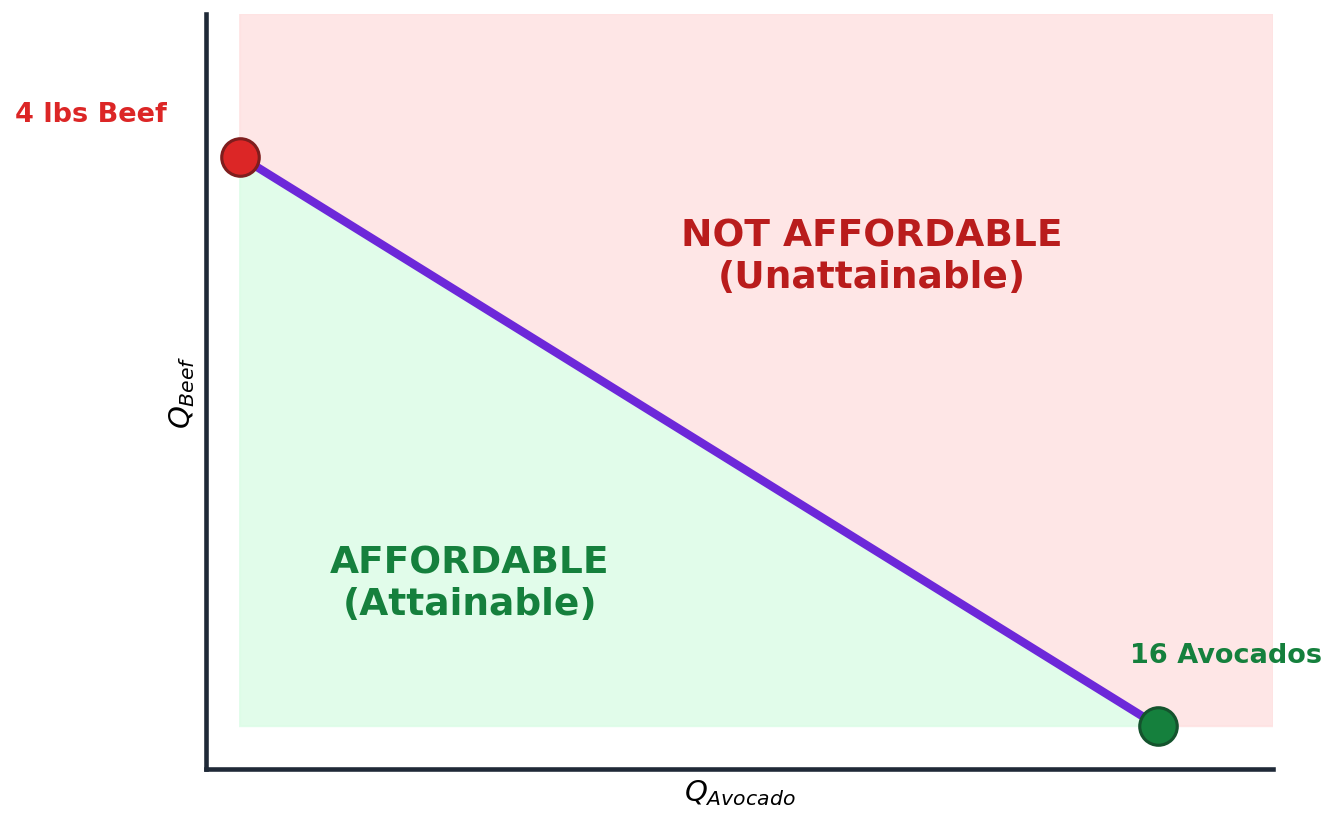
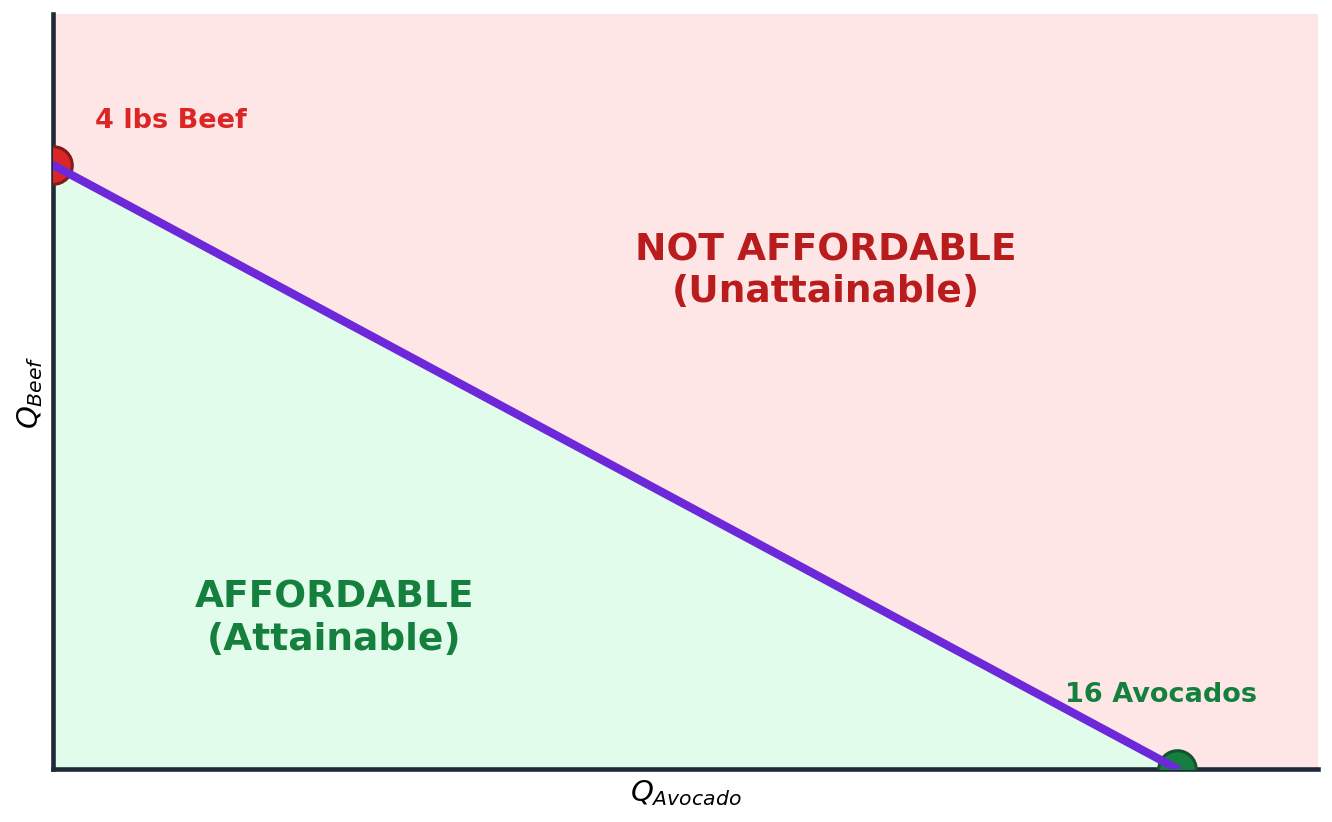
Ch8: anchor budget-line axes at (0,0); drop redundant budget-diagram; add Alex solution sub-slide
- figure_lets_visualize.py + figure_budget_regions.py: spines now sit at
  data origin (0,0) so endpoints meet the axes cleanly (no offset gap
  between markers and the line). Annotations repositioned to stay inside
  the new bounds.
- Remove the old "Budget Line on the Diagram" slide (figure_001 pivot/shift
  preview) — superseded by the new Let's Visualize + Affordable/Unaffordable
  pair just before it.
- alex-you-try is now a vertical group with a new alex-you-try-solution
  sub-slide (press ↓): figure_alex_solution.png shows endpoints
  (5 meals, 0 games) ↔ (0 meals, 1.875 games), the $75/$75 midpoint,
  and slope = P_meal/P_game = 0.375. Three walkthrough cards explain
  endpoints, opportunity-cost slope, and the indivisibility wrinkle
  (1 game + 2 meals = $140, $10 left).

Changed region(s): [[0.0, 0.0, 1.0, 1.0], [0.4617, 0.2433, 0.8003, 0.365]]

diff --git a/econ1116/ch08-consumer-choice/presentation.html b/econ1116/ch08-consumer-choice/presentation.html
@@ -1697,54 +1697,83 @@ The punchline — "variety in the middle" — previews two later concepts: (a) c
   <aside class="notes">The budget LINE is the boundary, but the budget CONSTRAINT is the whole region (including the interior). Three zones: (1) ON the line — spent every dollar; (2) INSIDE the triangle (below + to the left of the line) — affordable, saved some money; (3) ABOVE the line — unaffordable. Connect back to the PPF from Ch 3 — same logic at the consumer scale.</aside>
 </section>
 
-<!-- ===== You Try — Alex's $150 budget, draw it on paper ===== -->
-<section id="alex-you-try">
-  <h2><i class="fa-solid fa-pencil" style="color: var(--accent-color);"></i> You Try &mdash; Draw Alex&rsquo;s Budget Line</h2>
+<!-- ===== You Try vertical group — Alex's $150 budget + solution sub-slide ===== -->
+<section>
+  <section id="alex-you-try">
+    <h2><i class="fa-solid fa-pencil" style="color: var(--accent-color);"></i> You Try &mdash; Draw Alex&rsquo;s Budget Line</h2>
 
-  <div style="display: grid; grid-template-columns: 1fr 1.1fr; gap: 22px; align-items: center;">
-    <!-- LEFT: data context -->
-    <div>
-      <div style="background: #f8f6f3; border-radius: 10px; padding: 14px 22px; border-left: 4px solid var(--secondary-color); margin-bottom: 12px;">
-        <p style="font-size: 12pt; font-weight: 700; color: var(--secondary-color); text-transform: uppercase; letter-spacing: 0.06em; margin: 0 0 4px;"><i class="fa-solid fa-book" style="margin-right: 6px;"></i>Case Study: Alex&rsquo;s monthly entertainment</p>
-        <p style="font-size: 14pt; line-height: 1.6; margin: 0;">
-          <strong>Income:</strong> $150 / mo discretionary<br>
-          <strong>Price X (Games):</strong> $80<br>
-          <strong>Price Y (Uber Eats):</strong> $30
-        </p>
+    <div style="display: grid; grid-template-columns: 1fr 1.1fr; gap: 22px; align-items: center;">
+      <!-- LEFT: data context -->
+      <div>
+        <div style="background: #f8f6f3; border-radius: 10px; padding: 14px 22px; border-left: 4px solid var(--secondary-color); margin-bottom: 12px;">
+          <p style="font-size: 12pt; font-weight: 700; color: var(--secondary-color); text-transform: uppercase; letter-spacing: 0.06em; margin: 0 0 4px;"><i class="fa-solid fa-book" style="margin-right: 6px;"></i>Case Study: Alex&rsquo;s monthly entertainment</p>
+          <p style="font-size: 14pt; line-height: 1.6; margin: 0;">
+            <strong>Income:</strong> $150 / mo discretionary<br>
+            <strong>Price X (Games):</strong> $80<br>
+            <strong>Price Y (Uber Eats):</strong> $30
+          </p>
+        </div>
+
+        <div style="background: #fff3e0; border-radius: 8px; padding: 10px 18px; border-left: 4px solid var(--accent-color);">
+          <p style="font-size: 13pt; line-height: 1.55; margin: 0;">On paper:
+            <br>1. Find the two <strong>endpoints</strong> (all on games &middot; all on Uber Eats)
+            <br>2. Draw the budget <strong>line</strong>
+            <br>3. Shade the <strong>affordable</strong> region
+          </p>
+        </div>
       </div>
 
-      <div style="background: #fff3e0; border-radius: 8px; padding: 10px 18px; border-left: 4px solid var(--accent-color);">
-        <p style="font-size: 13pt; line-height: 1.55; margin: 0;">On paper:
-          <br>1. Find the two <strong>endpoints</strong> (all on games &middot; all on Uber Eats)
-          <br>2. Draw the budget <strong>line</strong>
-          <br>3. Shade the <strong>affordable</strong> region
-        </p>
+      <!-- RIGHT: empty graph with prompt -->
+      <div style="text-align: center;">
+        <img src="figures/figure_alex_you_try.png" alt="Empty Q_Games vs Q_Uber-Eats axes for students to draw the budget line" style="width: 100%; max-width: 540px; height: auto;">
       </div>
     </div>
 
-    <!-- RIGHT: empty graph with prompt -->
-    <div style="text-align: center;">
-      <img src="figures/figure_alex_you_try.png" alt="Empty Q_Games vs Q_Uber-Eats axes for students to draw the budget line" style="width: 100%; max-width: 540px; height: auto;">
+    <p style="text-align: center; font-size: 12pt; color: var(--muted-color); margin-top: 12px; font-style: italic;">
+      Work it out on paper &mdash; <strong>3 minutes</strong>. Press <kbd>&darr;</kbd> for the solution.
+    </p>
+
+    <aside class="notes">Student practice — paper exercise. The answer: at $150 with $80 games + $30 Uber Eats, the endpoints are (0 games, 5 meals) and (1.875 games, 0 meals). Budget line slopes downward connecting them. Slope = −P_meal/P_game = −30/80 = −0.375 (each extra meal costs 0.375 of a game). Real-world note: Alex can't buy 1.875 games — so practical bundles are (0 games + 5 meals), (1 game + 2.33 meals), or (1 game + 2 meals saving $10). The fractional-game point on the budget line is purely mathematical. Walk around the room, then press DOWN to project the solution.</aside>
+  </section>
+
+  <section id="alex-you-try-solution">
+    <h2><i class="fa-solid fa-circle-check" style="color: var(--accent-color);"></i> Solution &mdash; Alex&rsquo;s Budget Line</h2>
+
+    <div style="display: grid; grid-template-columns: 1.25fr 1fr; gap: 22px; align-items: center;">
+      <!-- LEFT: the filled-in figure -->
+      <div style="text-align: center;">
+        <img src="figures/figure_alex_solution.png" alt="Alex's $150 budget line — endpoints (5 meals, 0 games) and (0 meals, 1.875 games), with $75/$75 midpoint" style="width: 100%; max-width: 620px; height: auto;">
+      </div>
+
+      <!-- RIGHT: walkthrough cards -->
+      <div>
+        <div style="background: #f8f6f3; border-radius: 8px; padding: 10px 16px; border-left: 4px solid var(--accent-color); margin-bottom: 10px;">
+          <p style="font-size: 11pt; font-weight: 700; color: var(--accent-color); text-transform: uppercase; letter-spacing: 0.06em; margin: 0 0 3px;">Endpoints</p>
+          <p style="font-size: 13pt; line-height: 1.55; margin: 0;">
+            All on games: $150 &divide; $80 = <strong>1.875 games</strong><br>
+            All on meals: $150 &divide; $30 = <strong>5 Uber Eats</strong>
+          </p>
+        </div>
+
+        <div style="background: #fef9c3; border-radius: 8px; padding: 10px 16px; border-left: 4px solid #ca8a04; margin-bottom: 10px;">
+          <p style="font-size: 11pt; font-weight: 700; color: #854d0e; text-transform: uppercase; letter-spacing: 0.06em; margin: 0 0 3px;">Slope (opportunity cost)</p>
+          <p style="font-size: 13pt; line-height: 1.55; margin: 0;">
+            P<sub>meal</sub> &divide; P<sub>game</sub> = $30 &divide; $80 = <strong>0.375</strong><br>
+            Each extra meal costs <strong>0.375 of a game</strong>.
+          </p>
+        </div>
+
+        <div style="background: #ecfdf5; border-radius: 8px; padding: 10px 16px; border-left: 4px solid #15803d;">
+          <p style="font-size: 11pt; font-weight: 700; color: #15803d; text-transform: uppercase; letter-spacing: 0.06em; margin: 0 0 3px;">Real-world wrinkle</p>
+          <p style="font-size: 12pt; line-height: 1.5; margin: 0;">
+            Games are <strong>indivisible</strong>. Alex can&rsquo;t buy 1.875 games &mdash; so a feasible bundle is <strong>1 game + 2 meals</strong> ($140, $10 left).
+          </p>
+        </div>
+      </div>
     </div>
-  </div>
 
-  <p style="text-align: center; font-size: 12pt; color: var(--muted-color); margin-top: 12px; font-style: italic;">
-    Work it out on paper &mdash; <strong>3 minutes</strong>.
-  </p>
-
-  <aside class="notes">Student practice — paper exercise. The answer: at $150 with $80 games + $30 Uber Eats, the endpoints are (0 games, 5 meals) and (1.875 games, 0 meals). Budget line slopes downward connecting them. Slope = −P_X/P_Y = −80/30 ≈ −2.67. Or to put it intuitively: each extra game costs 2.67 Uber Eats meals. Real-world note: Alex can't buy 1.875 games — so practical bundles are (0 games + 5 meals), (1 game + 2.33 meals), or (1 game + 2 meals saving $10). The fractional-game point on the budget line is purely mathematical. Walk around the room, then either project the solution on the next slide OR draw it live on the board.</aside>
-</section>
-
-<!-- Figure 1: Budget Constraint -->
-<section id="budget-diagram">
- <h2>The Budget Line on the Diagram</h2>
- <div style="text-align: center;">
-  <img alt="Maya's budget constraint with pivot and shift" src="figures/figure_001_budget_constraint.png" style="max-height: 510px; max-width: 90%;">
- </div>
- <p style="font-size: 13pt; color: var(--muted-color); text-align: center; margin-top: 6px; font-style: italic;"><strong>Price change</strong> &rarr; line <em>rotates</em> (concert $60&rarr;$30, more concerts now affordable). <strong>Income change</strong> &rarr; line <em>shifts parallel</em> (I $300&rarr;$450).</p>
- <aside class="notes">
-  Walk through the diagram. Stress: prices change the slope (rotate); income changes the intercepts (shift). Connect to the PPF: same diagram-logic for what a person can do vs. what society can do.
- </aside>
+    <aside class="notes">Walk the solution. (1) Find the endpoints first — that's the whole game with budget constraints: spend all on one good, then all on the other. (2) Connect them with a straight line — that's every combination that exhausts the $150. (3) Shade below = affordable / saved money. (4) The slope IS the opportunity cost — to get one more meal, give up 0.375 of a game. (5) The indivisibility wrinkle is real: the budget LINE assumes you can buy fractional units; for indivisible goods, only integer points on (or below) the line are actually purchasable.</aside>
+  </section>
 </section>
 
 <!-- Inflation & shrinking budget -->

diff --git a/econ1116/ch08-consumer-choice/figures/figure_alex_solution.py b/econ1116/ch08-consumer-choice/figures/figure_alex_solution.py
@@ -1,0 +1,74 @@
+"""Solution — Alex's $150 entertainment budget: games at $80, Uber Eats at $30.
+   Filled-in budget line for the You Try paper exercise."""
+import matplotlib
+matplotlib.use('Agg')
+import matplotlib.pyplot as plt
+
+fig, ax = plt.subplots(figsize=(9, 5.6))
+
+# Budget line: 80 * Q_games + 30 * Q_meals = 150
+# Endpoints (x = Q_meals, y = Q_games): (5, 0) and (0, 1.875)
+x_line = [0, 5]
+y_line = [1.875, 0]
+ax.plot(x_line, y_line, color='#6d28d9', linewidth=4, zorder=7,
+        solid_capstyle='round')
+
+# Affordable region — green tint below the line
+ax.fill([0, 5, 0], [0, 0, 1.875], color='#dcfce7', alpha=0.7, zorder=1)
+
+# Endpoint markers
+ax.plot(0, 1.875, 'o', color='#dc2626', markersize=18, zorder=6,
+        markeredgecolor='#7f1d1d', markeredgewidth=1.5)
+ax.annotate('All games:\n1.875 games\n(can buy 1)', xy=(0, 1.875),
+            xytext=(0.2, 1.9), fontsize=12, weight='bold',
+            color='#dc2626', ha='left', va='top')
+
+ax.plot(5, 0, 'o', color='#15803d', markersize=18, zorder=6,
+        markeredgecolor='#14532d', markeredgewidth=1.5)
+ax.annotate('All meals:\n5 Uber Eats', xy=(5, 0), xytext=(4.0, 0.45),
+            fontsize=12, weight='bold', color='#15803d', ha='right')
+
+# Midpoint-ish marker: 1 game + (150-80)/30 = 1 game + 2.33 meals
+# Pure midpoint by spending half on each: $75 → 0.94 games, $75 → 2.5 meals
+ax.plot(2.5, 0.9375, 'o', color='#ea580c', markersize=18, zorder=6,
+        markeredgecolor='#9a3412', markeredgewidth=1.5)
+ax.annotate('$75 each:\n2.5 meals\n+ ~0.94 game', xy=(2.5, 0.9375),
+            xytext=(2.8, 1.35), fontsize=11, weight='bold', color='#ea580c')
+
+# Dashed guides to the midpoint
+ax.plot([0, 2.5], [0.9375, 0.9375], color='#9ca3af', linewidth=1.4, linestyle='--', zorder=2)
+ax.plot([2.5, 2.5], [0, 0.9375], color='#9ca3af', linewidth=1.4, linestyle='--', zorder=2)
+
+# Slope annotation
+ax.text(3.6, 1.85, r'Slope $=\dfrac{P_{meal}}{P_{game}}=\dfrac{30}{80}=0.375$',
+        fontsize=13, color='#1a1a1a',
+        bbox=dict(boxstyle='round,pad=0.45', facecolor='#fef9c3',
+                  edgecolor='#ca8a04', linewidth=1.2))
+
+# Title
+ax.text(2.5, 2.45, "Alex's Budget Line — $150", fontsize=14, weight='bold',
+        ha='center', color='#1a1a1a')
+
+# Axis labels
+ax.set_xlabel(r'$\mathrm{Q_{Uber\,Eats}}$    (meals, \$30 each)', fontsize=12, weight='bold')
+ax.set_ylabel(r'$\mathrm{Q_{Games}}$    (games, \$80 each)', fontsize=12, weight='bold')
+
+ax.set_xlim(0, 6)
+ax.set_ylim(0, 2.6)
+ax.set_xticks([0, 1, 2, 3, 4, 5])
+ax.set_yticks([0, 0.5, 1, 1.5, 2])
+ax.grid(alpha=0.25)
+ax.spines['top'].set_visible(False)
+ax.spines['right'].set_visible(False)
+ax.spines['left'].set_color('#374151')
+ax.spines['bottom'].set_color('#374151')
+ax.spines['left'].set_linewidth(1.8)
+ax.spines['bottom'].set_linewidth(1.8)
+ax.spines['left'].set_position(('data', 0))
+ax.spines['bottom'].set_position(('data', 0))
+
+plt.tight_layout()
+plt.savefig('figures/figure_alex_solution.png', dpi=150, bbox_inches='tight',
+            facecolor='white', edgecolor='none')
+plt.close()
+print("OK: figure_alex_solution.png")

diff --git a/econ1116/ch08-consumer-choice/figures/figure_lets_visualize.py b/econ1116/ch08-consumer-choice/figures/figure_lets_visualize.py
@@ -15,17 +15,17 @@ ax.plot(x_line, y_line, color='#6d28d9', linewidth=4, zorder=5)
 # Markers + labels
 ax.plot(0, 4, 'o', color='#dc2626', markersize=18, zorder=6,
         markeredgecolor='#7f1d1d', markeredgewidth=1.5)
-ax.annotate('4 lbs Beef', xy=(0, 4), xytext=(-3.0, 4.2),
-            fontsize=14, weight='bold', color='#dc2626', ha='center')
+ax.annotate('4 lbs Beef', xy=(0, 4), xytext=(0.6, 4.25),
+            fontsize=14, weight='bold', color='#dc2626', ha='left')
 
 ax.plot(8, 2, 'o', color='#ea580c', markersize=18, zorder=6,
         markeredgecolor='#9a3412', markeredgewidth=1.5)
-ax.annotate('2 lbs Beef\n+ 8 Avocados', xy=(8, 2), xytext=(8.4, 2.8),
+ax.annotate('2 lbs Beef\n+ 8 Avocados', xy=(8, 2), xytext=(8.4, 2.6),
             fontsize=12, weight='bold', color='#ea580c')
 
 ax.plot(16, 0, 'o', color='#15803d', markersize=18, zorder=6,
         markeredgecolor='#14532d', markeredgewidth=1.5)
-ax.annotate('16 Avocados', xy=(16, 0), xytext=(15.4, 0.45),
+ax.annotate('16 Avocados', xy=(16, 0), xytext=(14.6, 0.45),
             fontsize=14, weight='bold', color='#15803d')
 
 # Dashed guide lines for the midpoint
@@ -33,15 +33,18 @@ ax.plot([0, 8], [2, 2], color='#9ca3af', linewidth=1.4, linestyle='--', zorder=2
 ax.plot([8, 8], [0, 2], color='#9ca3af', linewidth=1.4, linestyle='--', zorder=2)
 
 # Title placement on plot
-ax.text(8, 4.3, 'The Budget Line — $16 Budget', fontsize=14, weight='bold',
+ax.text(8, 4.55, 'The Budget Line — $16 Budget', fontsize=14, weight='bold',
         ha='center', color='#1a1a1a')
 
 # Axis labels (escape $ to avoid mathtext mangling the price labels)
 ax.set_xlabel(r'$\mathrm{Q_{Avocado}}$    (avocados, \$1 each)', fontsize=12, weight='bold')
 ax.set_ylabel(r'$\mathrm{Q_{Beef}}$    (lbs of beef, \$4/lb)', fontsize=12, weight='bold')
 
-ax.set_xlim(-0.6, 17.5)
-ax.set_ylim(-0.3, 4.8)
+# Axes anchored at (0, 0)
+ax.set_xlim(0, 17.5)
+ax.set_ylim(0, 4.9)
+ax.spines['left'].set_position(('data', 0))
+ax.spines['bottom'].set_position(('data', 0))
 ax.spines['top'].set_visible(False)
 ax.spines['right'].set_visible(False)
 ax.spines['left'].set_color('#374151')

diff --git a/econ1116/ch08-consumer-choice/figures/figure_budget_regions.py b/econ1116/ch08-consumer-choice/figures/figure_budget_regions.py
@@ -25,18 +25,20 @@ not_affordable_x = [0, 16, x_max, x_max, 0, 0]
 not_affordable_y = [4, 0, 0, y_max, y_max, 4]
 ax.fill(not_affordable_x, not_affordable_y, color='#fee2e2', alpha=0.85, zorder=1)
 
-# Budget line on top
-ax.plot(x_line, y_line, color='#6d28d9', linewidth=4, zorder=5)
+# Budget line on top — solid_capstyle round + zorder>marker so the line meets
+# the marker center instead of stopping short of it
+ax.plot(x_line, y_line, color='#6d28d9', linewidth=4, zorder=7,
+        solid_capstyle='round')
 
 # Endpoint markers
 ax.plot(0, 4, 'o', color='#dc2626', markersize=18, zorder=6,
         markeredgecolor='#7f1d1d', markeredgewidth=1.5)
-ax.annotate('4 lbs Beef', xy=(0, 4), xytext=(-2.6, 4.25),
-            fontsize=13, weight='bold', color='#dc2626', ha='center')
+ax.annotate('4 lbs Beef', xy=(0, 4), xytext=(0.6, 4.25),
+            fontsize=13, weight='bold', color='#dc2626', ha='left')
 
 ax.plot(16, 0, 'o', color='#15803d', markersize=18, zorder=6,
         markeredgecolor='#14532d', markeredgewidth=1.5)
-ax.annotate('16 Avocados', xy=(16, 0), xytext=(15.5, 0.45),
+ax.annotate('16 Avocados', xy=(16, 0), xytext=(14.4, 0.45),
             fontsize=13, weight='bold', color='#15803d')
 
 # Region labels
@@ -49,8 +51,9 @@ ax.text(11, 3.3, 'NOT AFFORDABLE\n(Unattainable)', fontsize=18, weight='bold',
 ax.set_xlabel('$Q_{Avocado}$', fontsize=14, weight='bold')
 ax.set_ylabel('$Q_{Beef}$', fontsize=14, weight='bold')
 
-ax.set_xlim(-0.6, x_max)
-ax.set_ylim(-0.3, y_max)
+# Axes anchored at (0, 0)
+ax.set_xlim(0, x_max)
+ax.set_ylim(0, y_max)
 ax.set_xticks([])
 ax.set_yticks([])
 ax.spines['top'].set_visible(False)
@@ -59,6 +62,8 @@ ax.spines['left'].set_color('#1f2937')
 ax.spines['bottom'].set_color('#1f2937')
 ax.spines['left'].set_linewidth(2.2)
 ax.spines['bottom'].set_linewidth(2.2)
+ax.spines['left'].set_position(('data', 0))
+ax.spines['bottom'].set_position(('data', 0))
 
 plt.tight_layout()
 plt.savefig('figures/figure_budget_regions.png', dpi=150, bbox_inches='tight',
